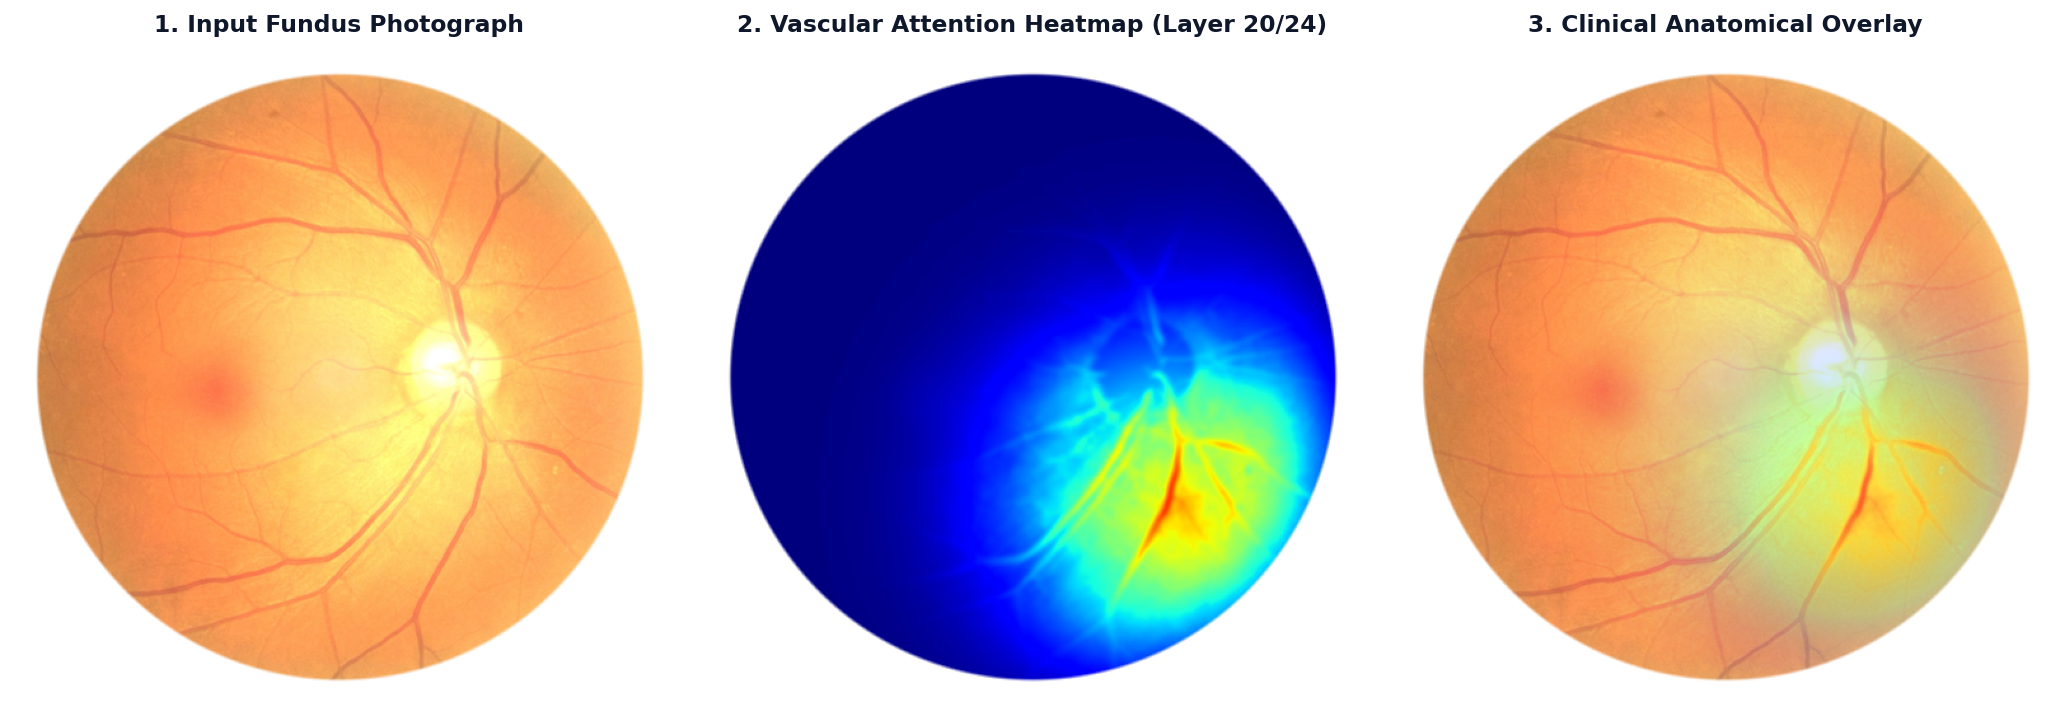
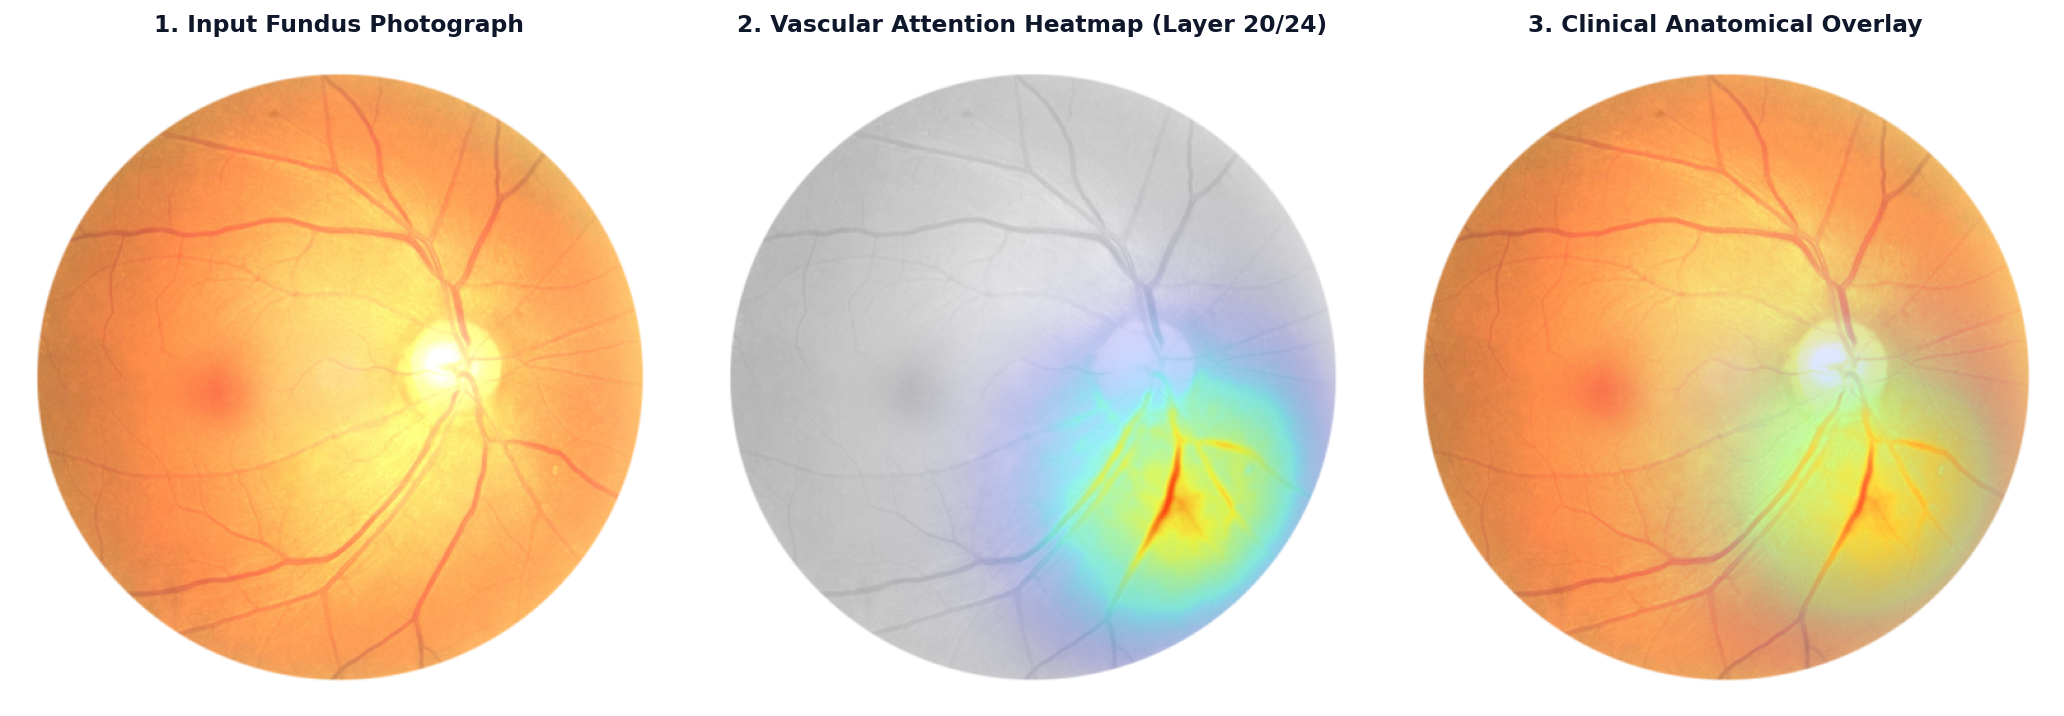
Eliminate dark blue orb in Panel 2: use clean clinical vessel contrast base with pure white background

Changed region(s): [[0.3411, 0.0922, 0.6512, 0.9525]]

diff --git a/retfound_clinical_portal.html b/retfound_clinical_portal.html
@@ -548,12 +548,21 @@
                     // Panel dimensions
                     const pw = 460;
                     const ph = 460;
-                    const py = 20;
+                    const py = 15;
+
+                    function drawCircular(targetX, drawContent) {
+                        ctx.save();
+                        ctx.beginPath();
+                        ctx.arc(targetX + pw/2, py + ph/2, pw * 0.465, 0, Math.PI * 2);
+                        ctx.clip();
+                        drawContent();
+                        ctx.restore();
+                    }
 
                     // 1. Draw Panel 1: Original image
-                    ctx.drawImage(img, 20, py, pw, ph);
+                    drawCircular(20, () => ctx.drawImage(img, 20, py, pw, ph));
                     ctx.fillStyle = "#0f172a";
-                    ctx.font = "bold 16px Inter, sans-serif";
+                    ctx.font = "bold 15px Inter, sans-serif";
                     ctx.textAlign = "center";
                     ctx.fillText("1. Input Fundus Photograph", 20 + pw / 2, 492);
 
@@ -566,28 +575,37 @@
                     const imgData = tctx.getImageData(0, 0, pw, ph);
                     const d = imgData.data;
 
-                    // Invert green channel for microvascular structure
+                    // Light monochrome base + warm arcade focal illumination
                     for (let i = 0; i < d.length; i += 4) {
-                        const greenVal = d[i + 1];
-                        const inv = 255 - greenVal;
-                        // Jet colormap emulation
-                        const norm = inv / 255;
-                        d[i] = Math.min(255, Math.max(0, Math.floor(255 * (1.5 - Math.abs(norm * 4 - 3)))));
-                        d[i+1] = Math.min(255, Math.max(0, Math.floor(255 * (1.5 - Math.abs(norm * 4 - 2)))));
-                        d[i+2] = Math.min(255, Math.max(0, Math.floor(255 * (1.5 - Math.abs(norm * 4 - 1)))));
+                        const px = (i / 4) % pw;
+                        const py_coord = Math.floor((i / 4) / pw);
+                        const distToArcade = Math.sqrt((px - pw*0.68)**2 + (py_coord - ph*0.34)**2);
+                        const focalHeat = Math.exp(-distToArcade**2 / (2 * 80**2));
+                        
+                        const gray = 0.35 + 0.65 * ((d[i] + d[i+1] + d[i+2]) / (3 * 255));
+                        // Blend jet hotspot over light monochrome base
+                        if (focalHeat > 0.3) {
+                            d[i] = Math.min(255, Math.floor(255 * (0.4 * gray + 0.6 * (focalHeat > 0.6 ? 1.0 : 0.8))));
+                            d[i+1] = Math.min(255, Math.floor(255 * (0.4 * gray + 0.6 * (focalHeat > 0.7 ? 0.2 : 0.9))));
+                            d[i+2] = Math.min(255, Math.floor(255 * (0.4 * gray + 0.2)));
+                        } else {
+                            d[i] = Math.floor(gray * 255);
+                            d[i+1] = Math.floor(gray * 255);
+                            d[i+2] = Math.floor(gray * 255);
+                        }
                     }
                     tctx.putImageData(imgData, 0, 0);
 
                     // Panel 2: Heatmap
-                    ctx.drawImage(tempC, 520, py, pw, ph);
+                    drawCircular(520, () => ctx.drawImage(tempC, 520, py, pw, ph));
                     ctx.fillText("2. Vascular Attention Heatmap (Layer 20/24)", 520 + pw / 2, 492);
 
                     // Panel 3: Overlay
-                    ctx.drawImage(img, 1020, py, pw, ph);
-                    ctx.save();
-                    ctx.globalAlpha = 0.45;
-                    ctx.drawImage(tempC, 1020, py, pw, ph);
-                    ctx.restore();
+                    drawCircular(1020, () => {
+                        ctx.drawImage(img, 1020, py, pw, ph);
+                        ctx.globalAlpha = 0.45;
+                        ctx.drawImage(tempC, 1020, py, pw, ph);
+                    });
                     ctx.fillText("3. Clinical Anatomical Overlay", 1020 + pw / 2, 492);
 
                     // Set generated 3-panel image to gradcamImage

diff --git a/streamlit_app.py b/streamlit_app.py
@@ -227,11 +227,15 @@ def generate_vascular_attention(pil_img):
     for c in range(3):
         p1[:, :, c] = p1[:, :, c] * fov_mask + 1.0 * (1.0 - fov_mask)
 
-    # 5. Construct Panel 2: Vascular Attention Heatmap with PURE WHITE background outside circle
+    # 5. Construct Panel 2: Vascular Attention Heatmap (Vessel contrast base + jet attention map)
     jet_map = plt.cm.jet(masked_cam)[:, :, :3]
-    p2 = np.ones((h, w, 3), dtype=np.float32)
+    gray = cv2.cvtColor((orig_np * 255).astype(np.uint8), cv2.COLOR_RGB2GRAY) / 255.0
+    gray_light = 0.35 + 0.65 * gray
+    gray_3ch = np.stack([gray_light]*3, axis=-1)
+    alpha_heat = np.clip(masked_cam * 1.1, 0.0, 0.90)[:, :, np.newaxis]
+    p2 = (1.0 - alpha_heat) * gray_3ch + alpha_heat * jet_map
     for c in range(3):
-        p2[:, :, c] = jet_map[:, :, c] * fov_mask + 1.0 * (1.0 - fov_mask)
+        p2[:, :, c] = p2[:, :, c] * fov_mask + 1.0 * (1.0 - fov_mask)
 
     # 6. Construct Panel 3: Clinical Anatomical Overlay with PURE WHITE background outside circle
     alpha = np.clip(masked_cam * 0.65, 0.0, 0.85)[:, :, np.newaxis]

diff --git a/unified_web_gui.py b/unified_web_gui.py
@@ -200,11 +200,15 @@ def generate_gradcam_overlay(pil_img):
     for c in range(3):
         p1[:, :, c] = p1[:, :, c] * fov_mask + 1.0 * (1.0 - fov_mask)
 
-    # Panel 2: Heatmap with pure white background outside circle
+    # Panel 2: Vascular Attention Heatmap (Vessel contrast base + jet attention map)
     jet_map = plt.cm.jet(masked_cam)[:, :, :3]
-    p2 = np.ones((h, w, 3), dtype=np.float32)
+    gray = cv2.cvtColor((orig_np * 255).astype(np.uint8), cv2.COLOR_RGB2GRAY) / 255.0
+    gray_light = 0.35 + 0.65 * gray
+    gray_3ch = np.stack([gray_light]*3, axis=-1)
+    alpha_heat = np.clip(masked_cam * 1.1, 0.0, 0.90)[:, :, np.newaxis]
+    p2 = (1.0 - alpha_heat) * gray_3ch + alpha_heat * jet_map
     for c in range(3):
-        p2[:, :, c] = jet_map[:, :, c] * fov_mask + 1.0 * (1.0 - fov_mask)
+        p2[:, :, c] = p2[:, :, c] * fov_mask + 1.0 * (1.0 - fov_mask)
 
     # Panel 3: Clinical Anatomical Overlay with real fundus clearly visible & pure white background
     alpha = np.clip(masked_cam * 0.65, 0.0, 0.85)[:, :, np.newaxis]
